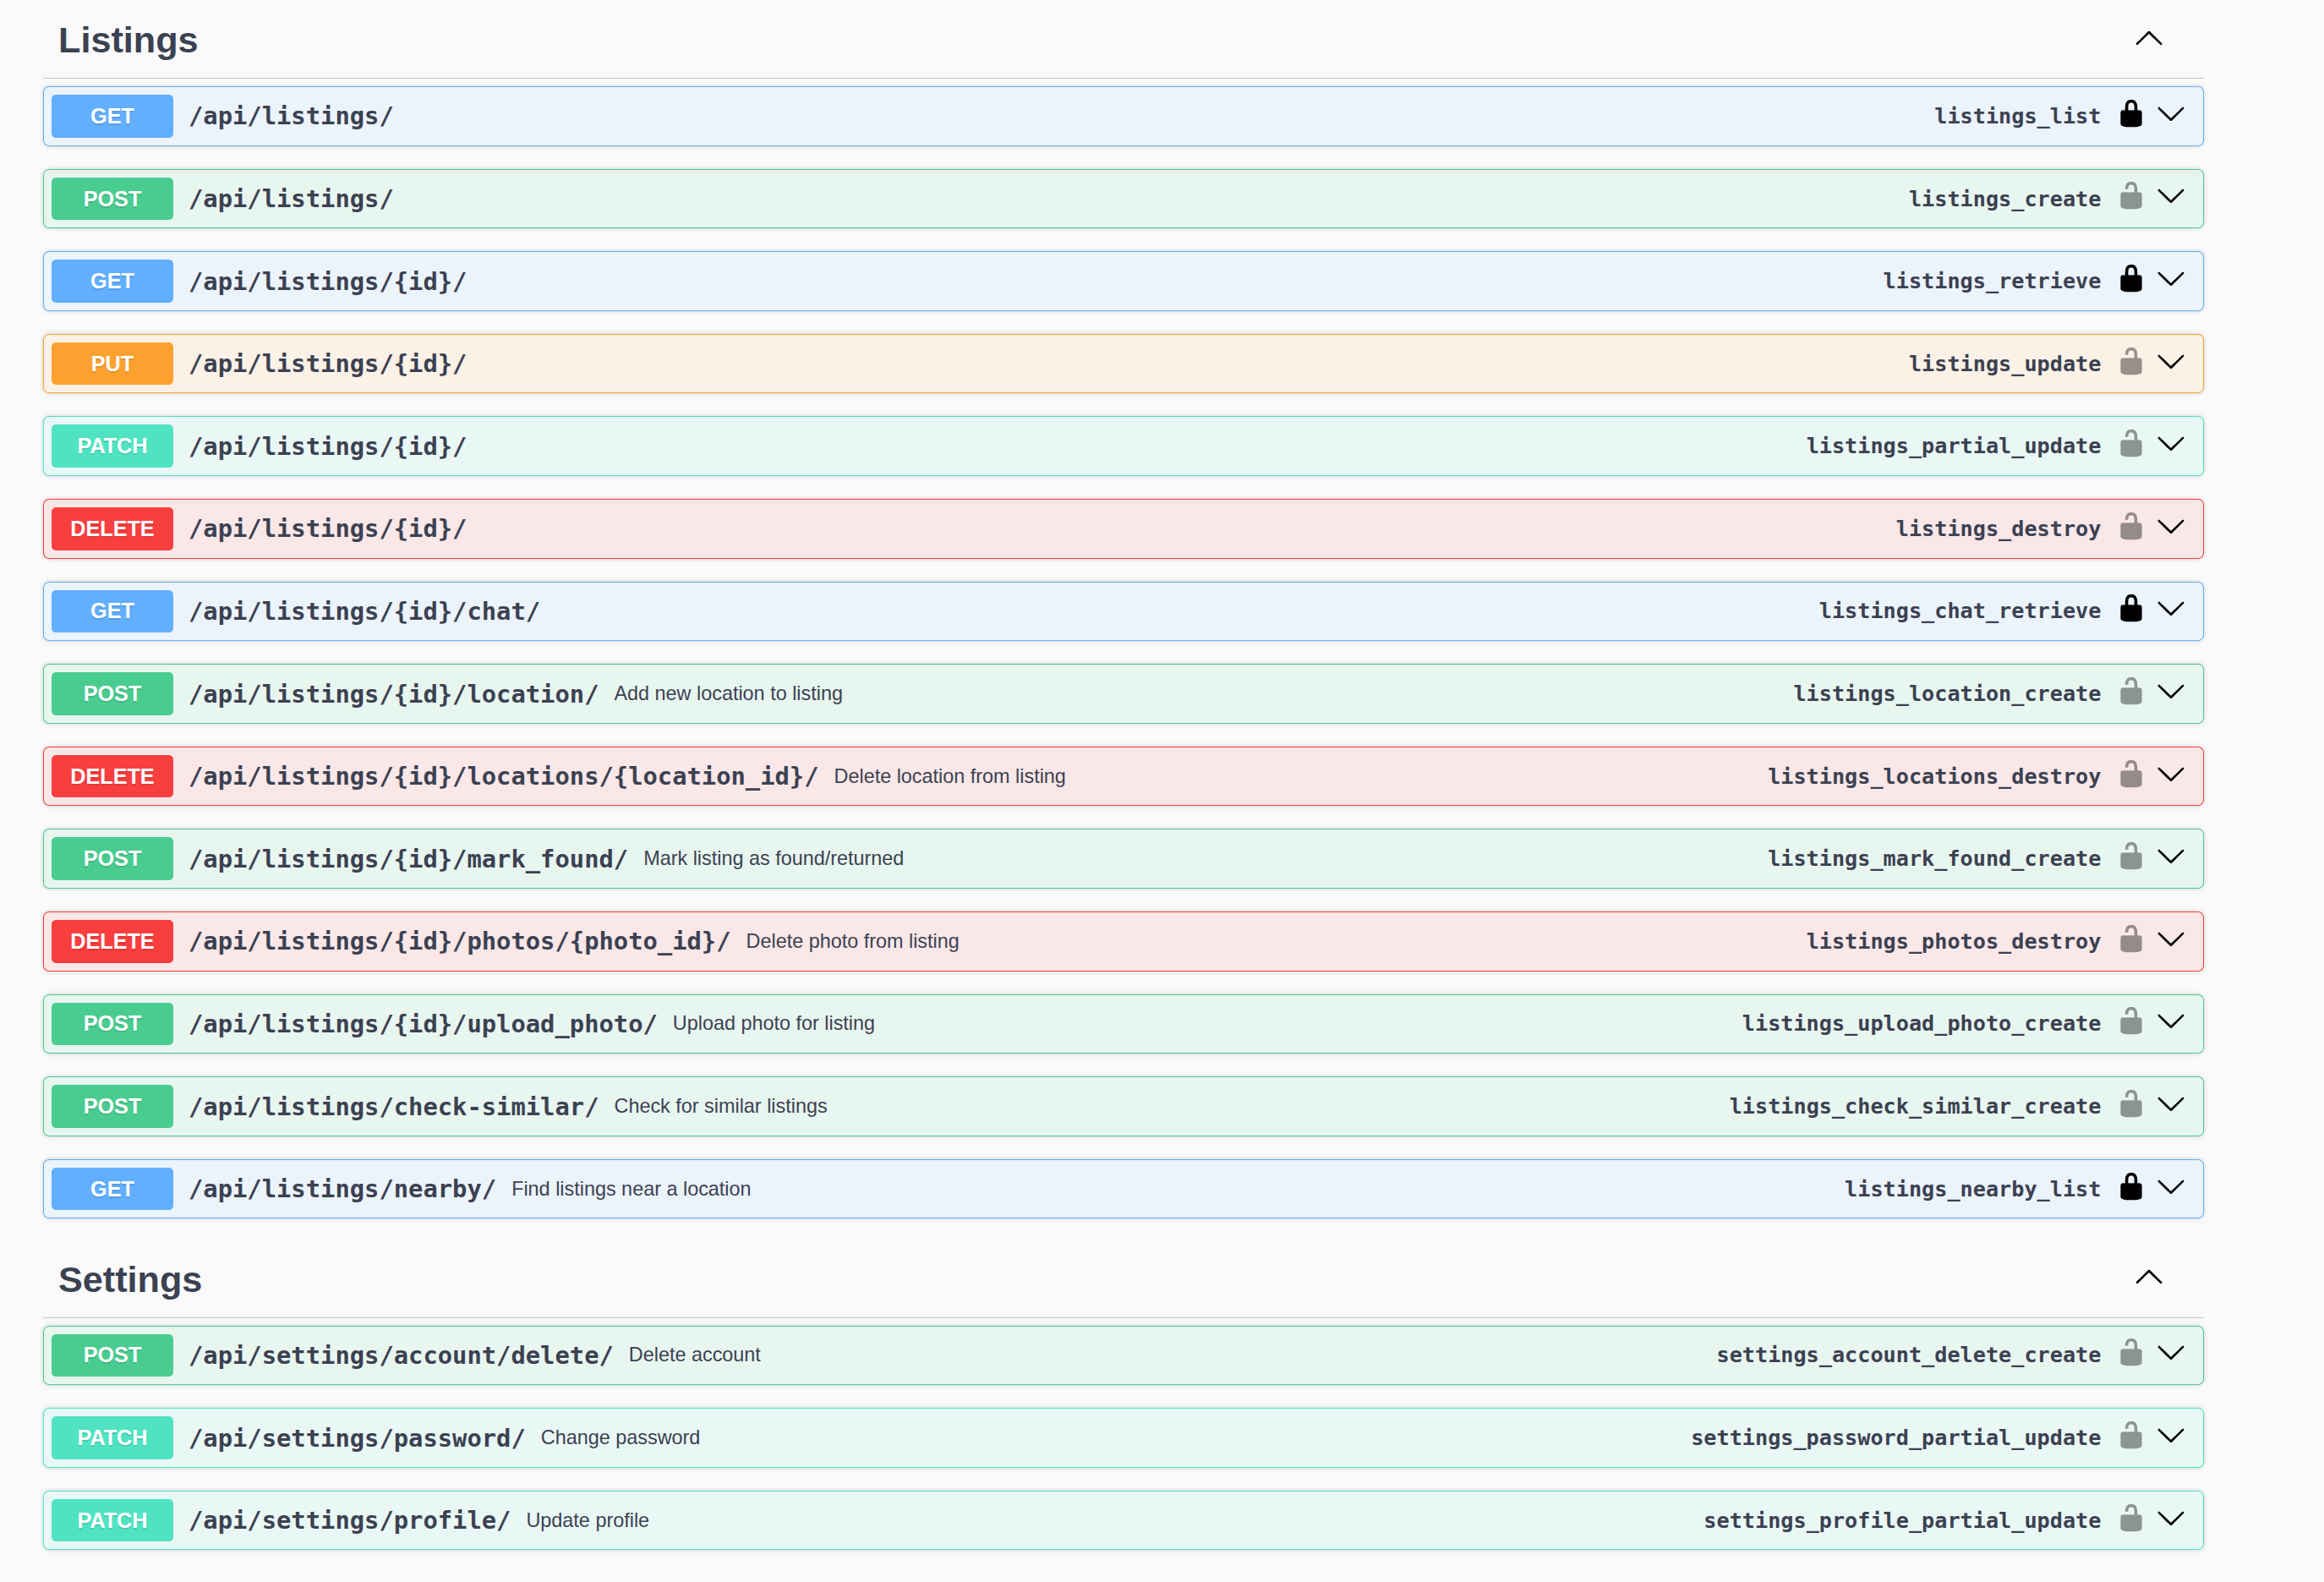
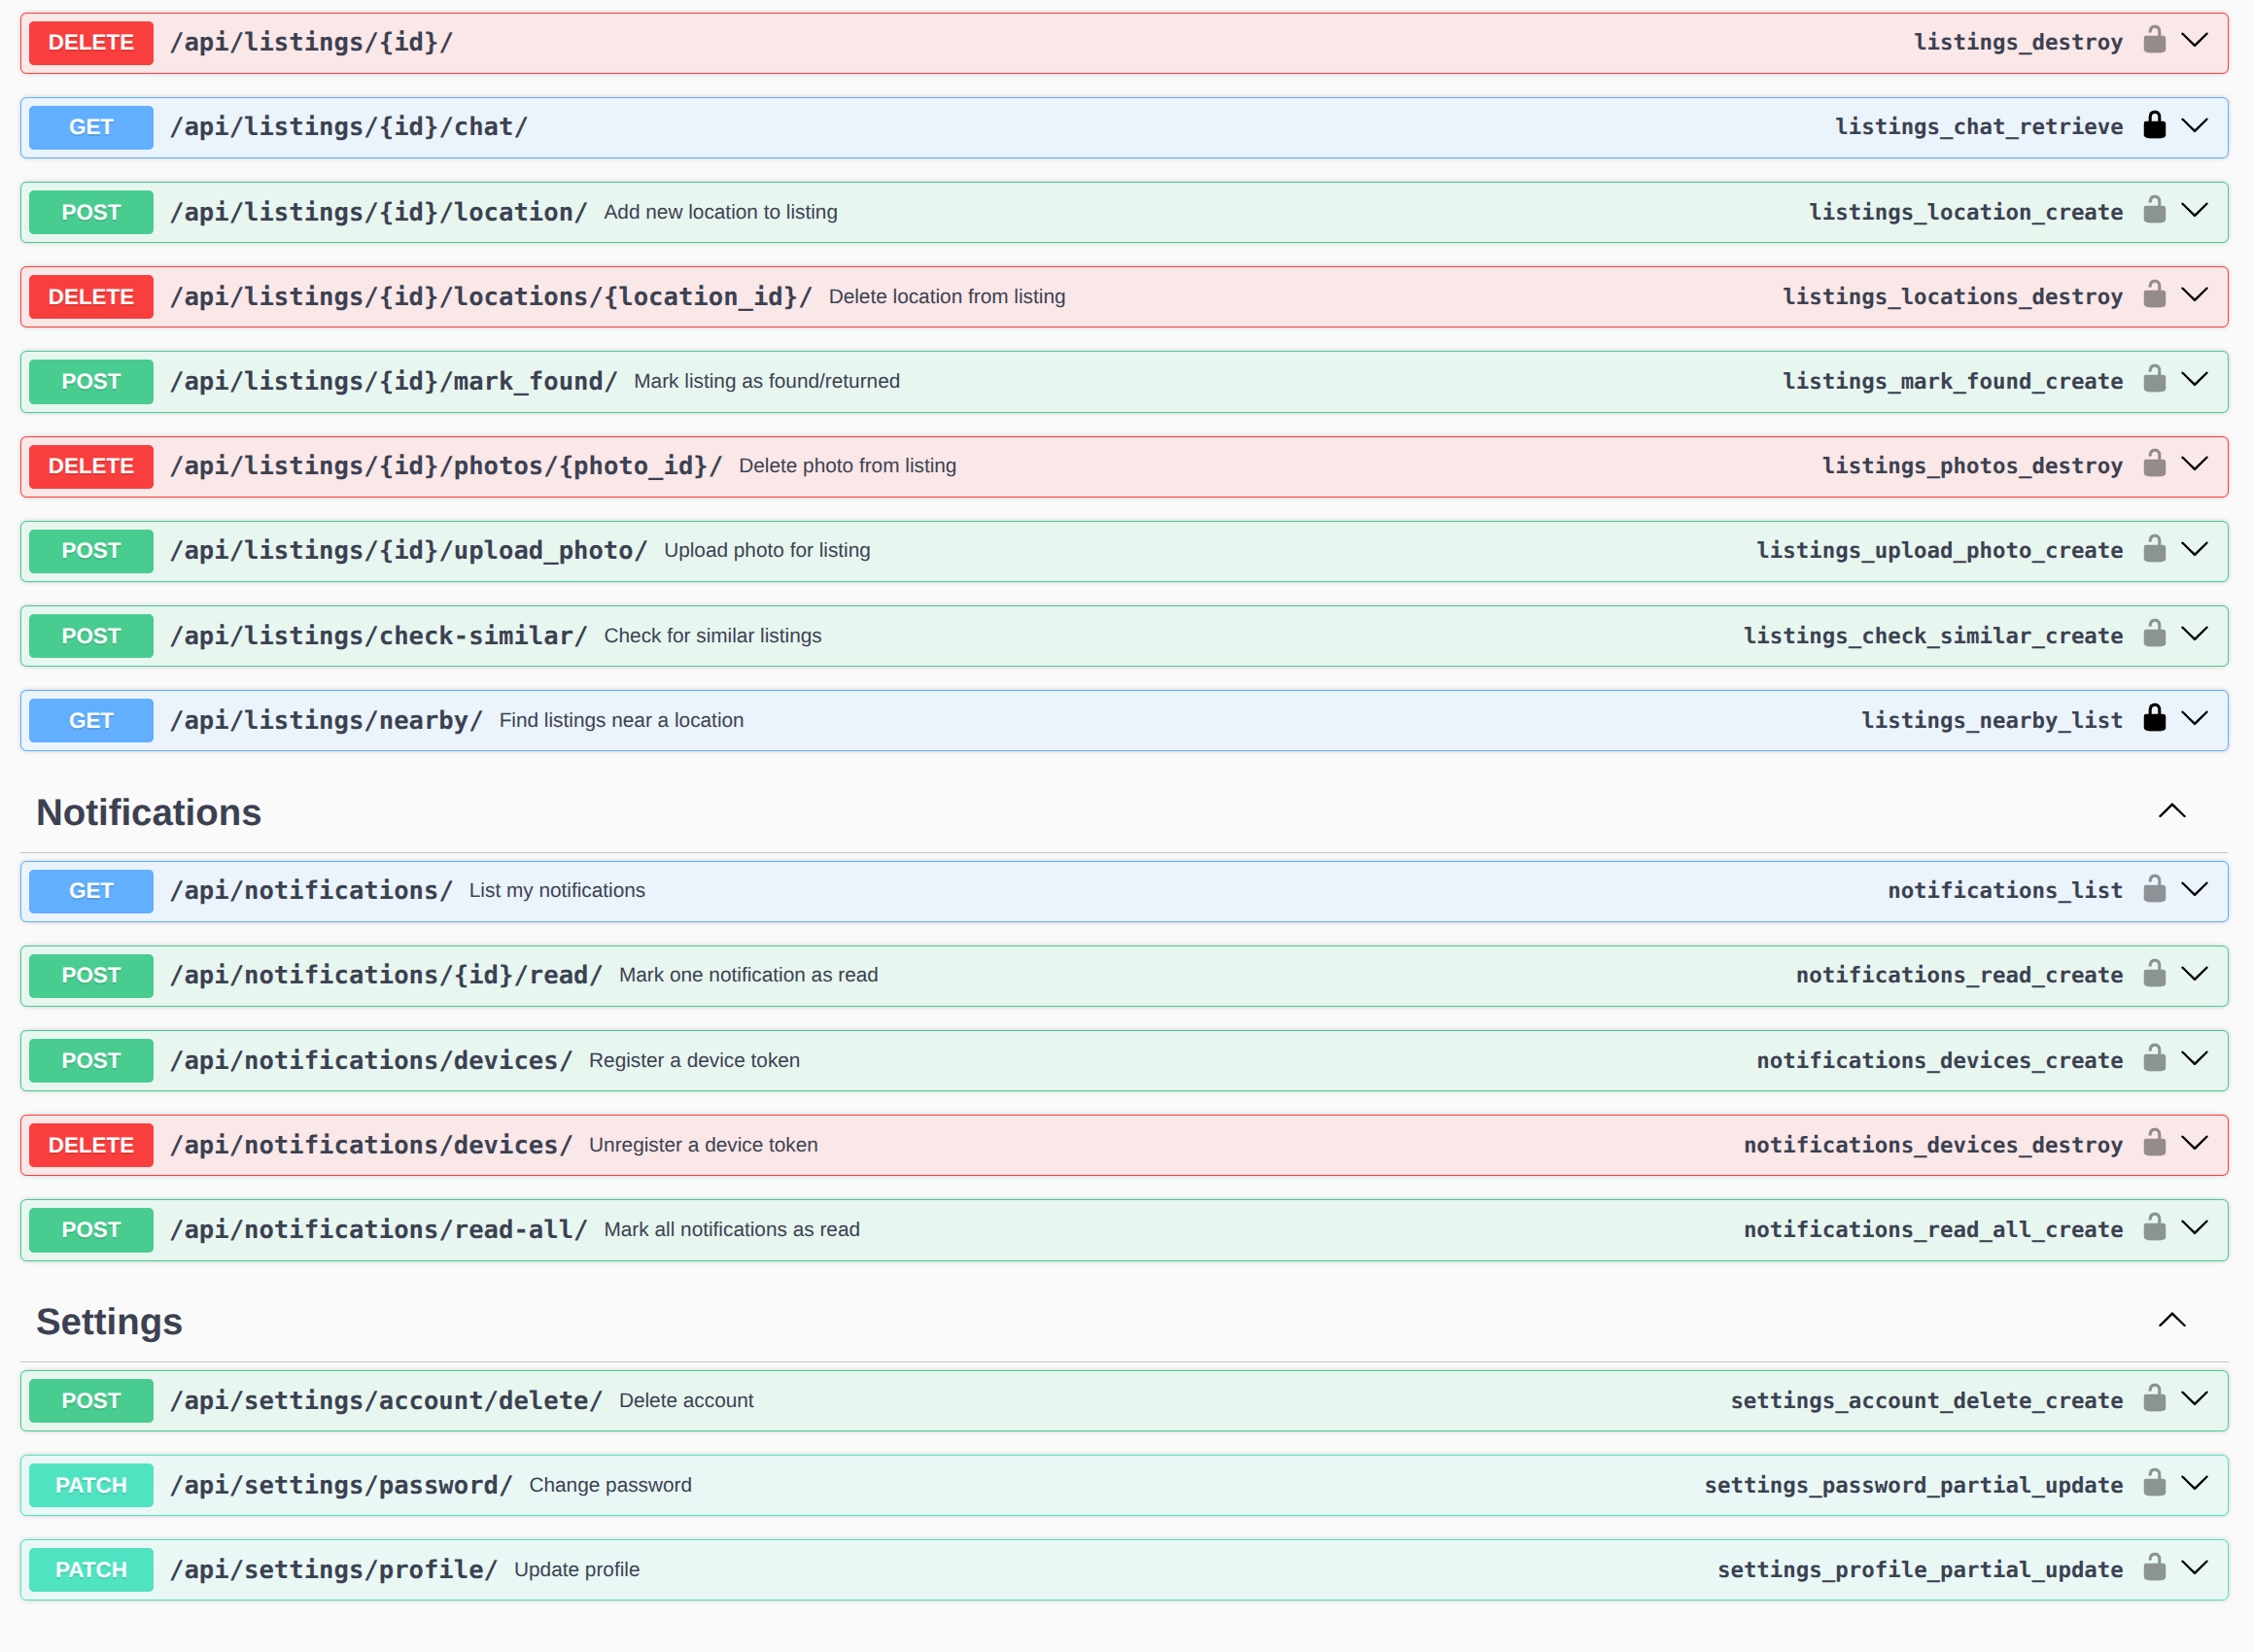
docs: update readme and docs

Changed region(s): [[0.0, 0.0, 0.9629, 0.9976], [0.7144, 0.8418, 0.9629, 0.9665]]

diff --git a/README.md b/README.md
@@ -11,6 +11,8 @@ The project is focused on **Poland**.
 ---
 
 > **Note:** The MVP is not yet complete. The backend is functional and below are current screenshots from the mobile interface.
+>
+> _README last updated: 2026-07-02_
 
 ## What's Already Working
 
@@ -25,6 +27,8 @@ The project is focused on **Poland**.
 - Mark listing as resolved
 - Profile screen with user's active and closed listings
 - Settings screens (profile update, password change, account deletion)
+- In-app chat (1:1 and group conversations, photo messages, live updates)
+- Report and browse listing locations on the map
 - Loading states, skeleton loaders, pull-to-refresh
 
 **Backend**
@@ -38,35 +42,50 @@ The project is focused on **Poland**.
 - Email login with API tests
 - Settings endpoints (profile update, password change, account deletion) with tests
 - In-app chat (REST API + WebSocket consumer, ticket-based auth, read receipts)
+- Push notifications (FCM) with online/offline delivery, device-token registration, and a persisted notification inbox
 
 **In progress**
-- In-app chat (mobile UI)
+- Push notifications (mobile integration)
 
 ---
 
 ## Screenshots
 
-### Creating a Listing
+> Screenshots are captured on iOS. The app is built for both iOS and Android — both are kept deployed in parallel during development.
+
+### Creating a Listing _(before the chat feature)_
 
 | Step 1 | Step 2 | Step 3 | Step 4 |
 |--------|--------|--------|--------|
-| ![Step 1](docs/screenshots/create-form-step1.jpeg) | ![Step 2](docs/screenshots/create-form-step2.jpeg) | ![Step 3](docs/screenshots/create-form-step3.jpeg) | ![Step 4](docs/screenshots/create-form-step4.jpeg) |
+| <img src="docs/screenshots/create-form-step1.jpeg" width="200" /> | <img src="docs/screenshots/create-form-step2.jpeg" width="200" /> | <img src="docs/screenshots/create-form-step3.jpeg" width="200" /> | <img src="docs/screenshots/create-form-step4.jpeg" width="200" /> |
 
 | Step 5.1 | Step 5.2 | Creating... | Created |
 |----------|----------|-------------|---------|
-| ![Step 5.1](docs/screenshots/create-form-step5.1.jpeg) | ![Step 5.2](docs/screenshots/create-form-step5.2.jpeg) | ![Creating](docs/screenshots/creating.jpeg) | ![Created](docs/screenshots/created.jpeg) |
+| <img src="docs/screenshots/create-form-step5.1.jpeg" width="200" /> | <img src="docs/screenshots/create-form-step5.2.jpeg" width="200" /> | <img src="docs/screenshots/creating.jpeg" width="200" /> | <img src="docs/screenshots/created.jpeg" width="200" /> |
 
-### Browsing & Details
+### Browsing & Details _(before the chat feature)_
 
 | Home (Lost) | Home (Found) | Listing View |
 |-------------|--------------|--------------|
-| ![Home Lost](docs/screenshots/home-lost-view.jpeg) | ![Home Found](docs/screenshots/home-found-view.jpeg) | ![Listing](docs/screenshots/listing-view.jpeg) |
+| <img src="docs/screenshots/home-lost-view.jpeg" width="200" /> | <img src="docs/screenshots/home-found-view.jpeg" width="200" /> | <img src="docs/screenshots/listing-view.jpeg" width="200" /> |
 
-### Profile & Settings
+### Report New Location
+
+| Locations in listing | Report location | After adding | Locations on map |
+|----------------------|-----------------|--------------|------------------|
+| <img src="docs/screenshots/locations-in-listing-screen.PNG" width="200" /> | <img src="docs/screenshots/location-reported.PNG" width="200" /> | <img src="docs/screenshots/locations-in-listing-screen-after-addition.PNG" width="200" /> | <img src="docs/screenshots/locations-map.PNG" width="200" /> |
+
+### Profile & Settings _(before the chat feature)_
 
 | Profile | Settings |
 |---------|----------|
-| ![Profile](docs/screenshots/profile-view.jpeg) | ![Settings](docs/screenshots/settings-view.jpeg) |
+| <img src="docs/screenshots/profile-view.jpeg" width="200" /> | <img src="docs/screenshots/settings-view.jpeg" width="200" /> |
+
+### Chat
+
+| Conversations | Chat |
+|---------------|------|
+| <img src="docs/screenshots/chat-preview.PNG" width="200" /> | <img src="docs/screenshots/chat-view.PNG" width="200" /> |
 
 ### API Documentation
 
@@ -78,6 +97,10 @@ WebSocket API is documented in [docs/asyncapi.yaml](docs/asyncapi.yaml) (AsyncAP
 ---
 
 ## 1. Features
+
+> **Note:** This section describes the planned feature set. Not all of it
+> is implemented yet — see [What's Already Working](#whats-already-working) for
+> the current state.
 
 ### 1.1. For Users Who Found a Dog
 
@@ -154,6 +177,7 @@ WebSocket API is documented in [docs/asyncapi.yaml](docs/asyncapi.yaml) (AsyncAP
 Full documentation is available in the [docs/](docs/) folder.
 
 - [WebSocket API (AsyncAPI)](docs/asyncapi.yaml) — real-time chat over WSS
+- [Push notifications](docs/push-notifications.md) — FCM delivery model (online vs. offline)
 
 ---
 
@@ -165,5 +189,5 @@ This project is licensed under [CC BY-NC 4.0](https://creativecommons.org/licens
 
 ## 5. Author
 
-**Sebastian**
-- GitHub: [@yethan](https://github.com/yethan4)
+**Sebastian Cybul**
+- GitHub: [@sebastiancybul](https://github.com/sebastiancybul)

diff --git a/docs/push-notifications.md b/docs/push-notifications.md
@@ -1,0 +1,15 @@
+# Push Notifications
+
+The backend delivers notifications through **Firebase Cloud Messaging (FCM)**.
+The REST endpoints (device-token registration, notification inbox) are
+documented in Swagger at `/api/docs/`; this page covers the delivery model
+behind them.
+
+## Delivery model: online vs. offline
+
+Every notification targets a single user. The backend decides *how* to deliver
+based on that user's live presence:
+
+- **Online** — delivered live over the WebSocket connection (see
+  [`asyncapi.yaml`](asyncapi.yaml)). No push is sent.
+- **Offline** — enqueued as an FCM push to all of the user's registered devices.